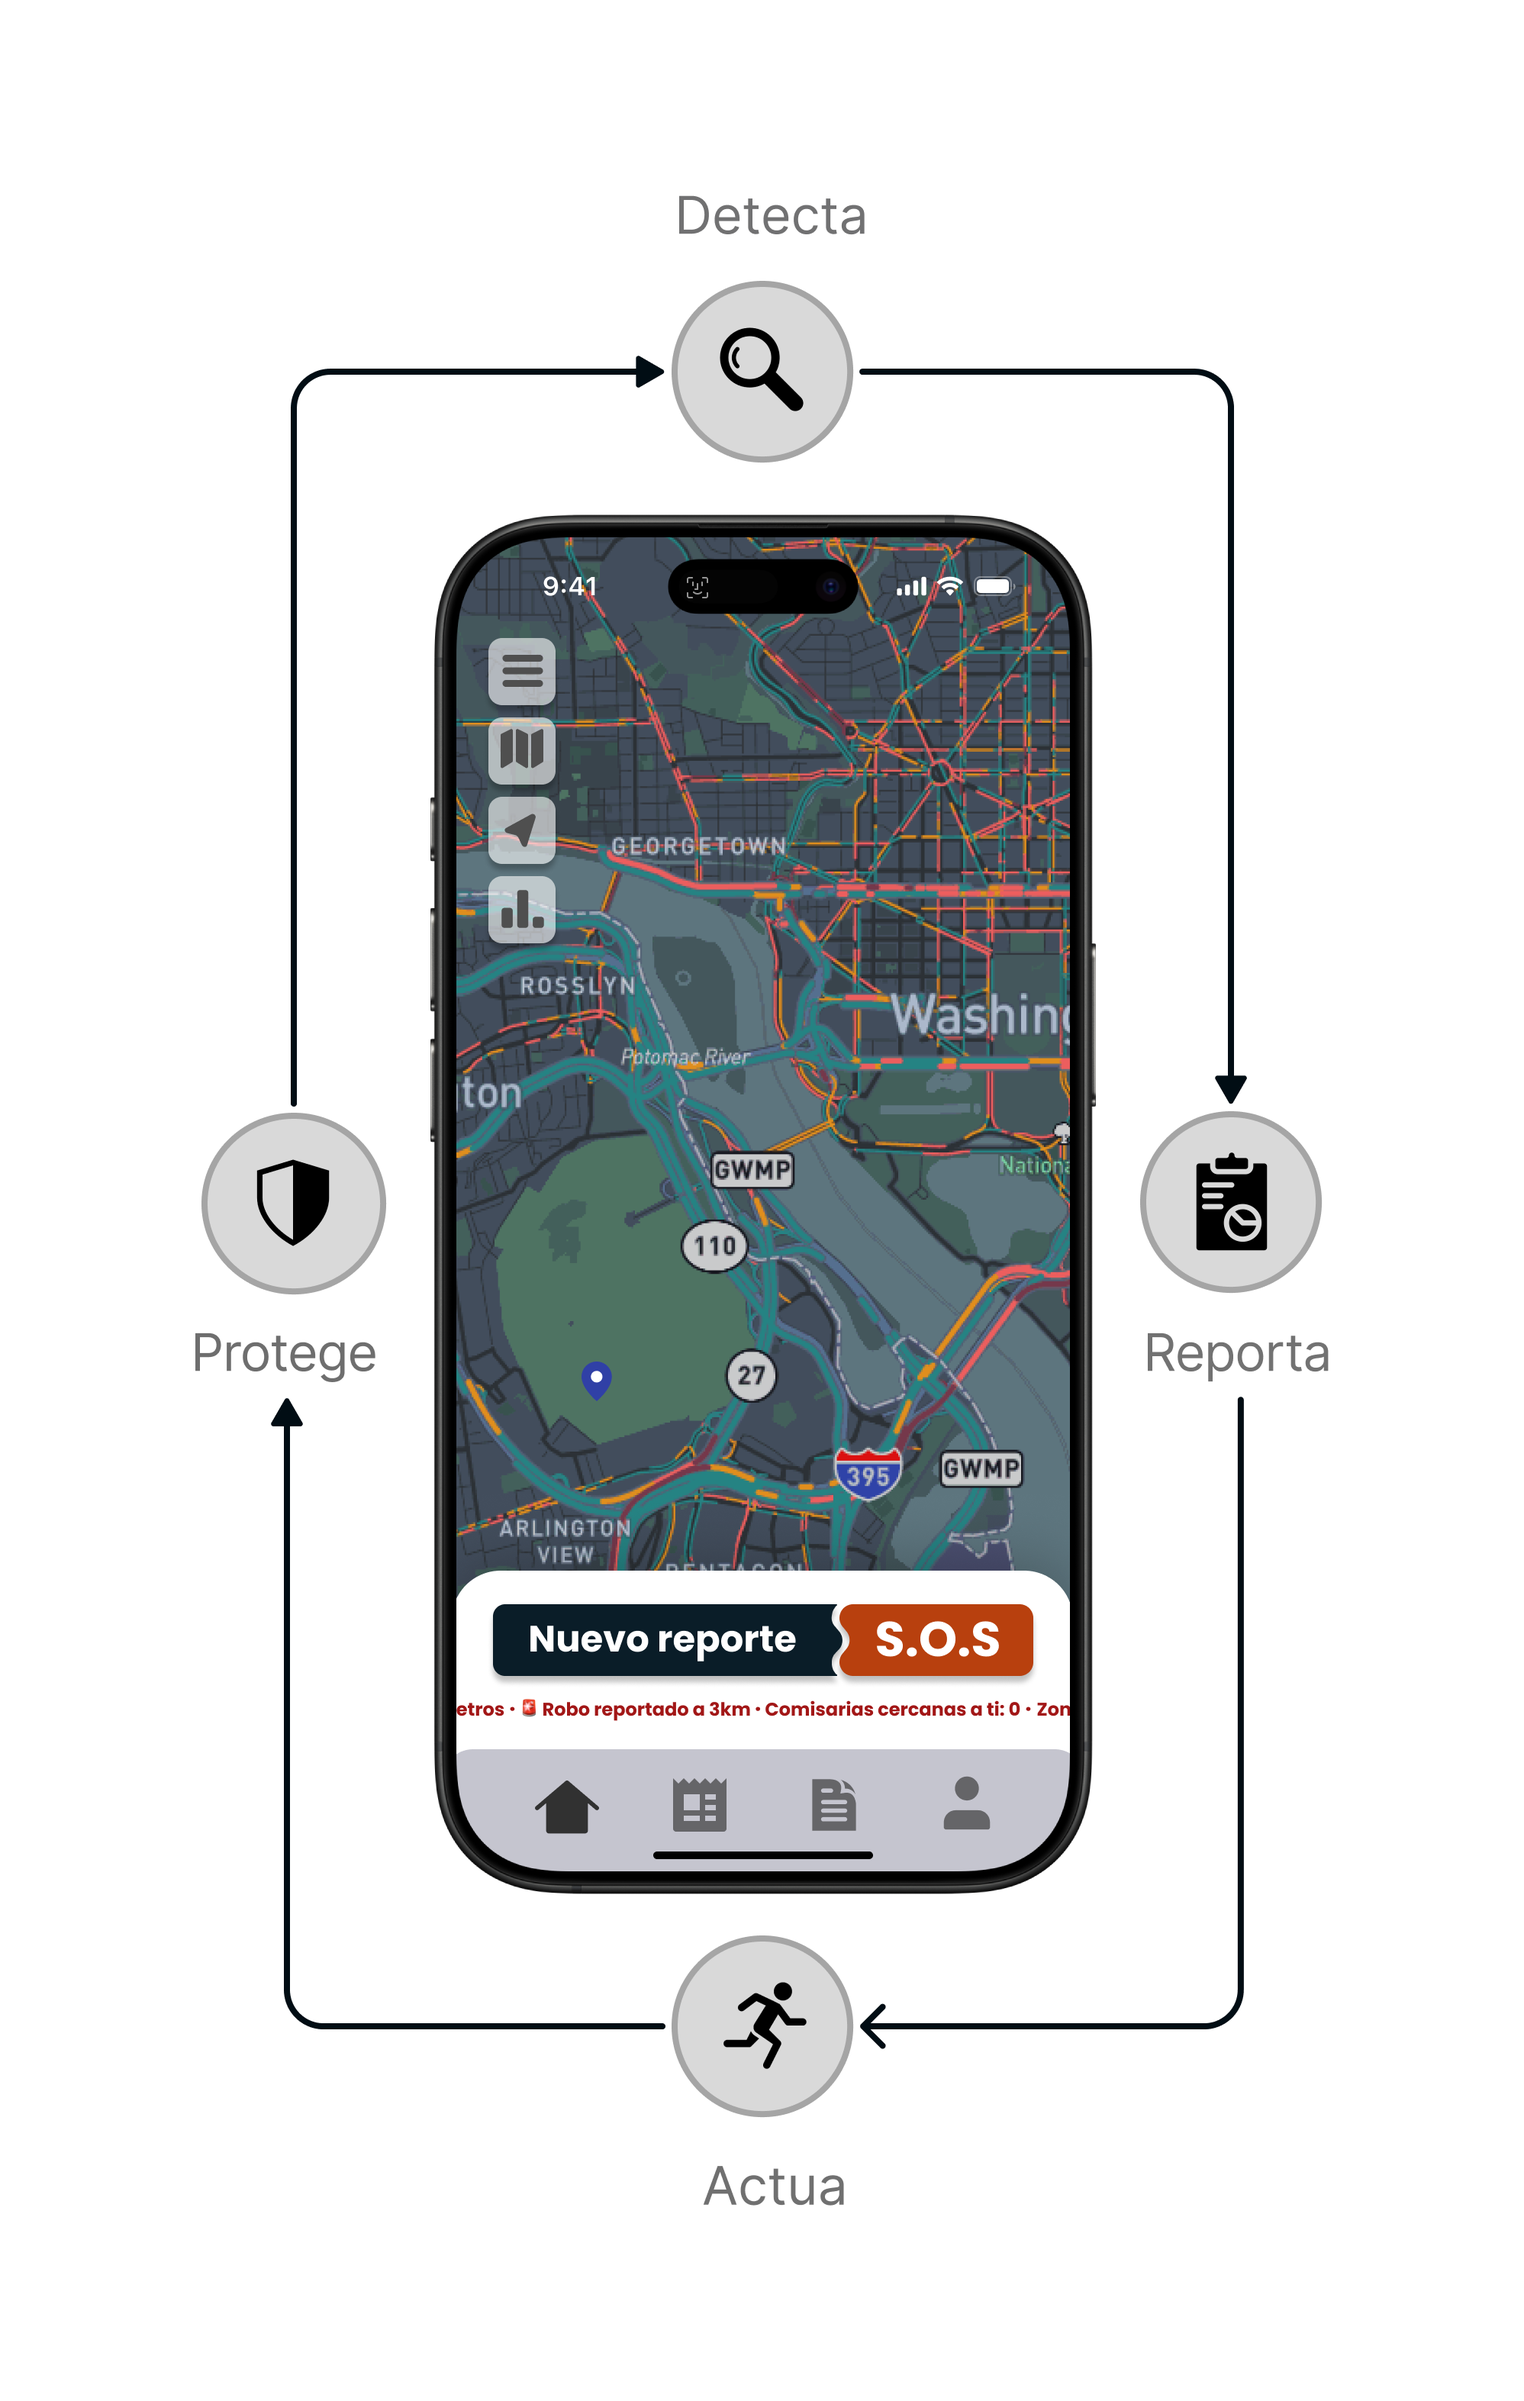
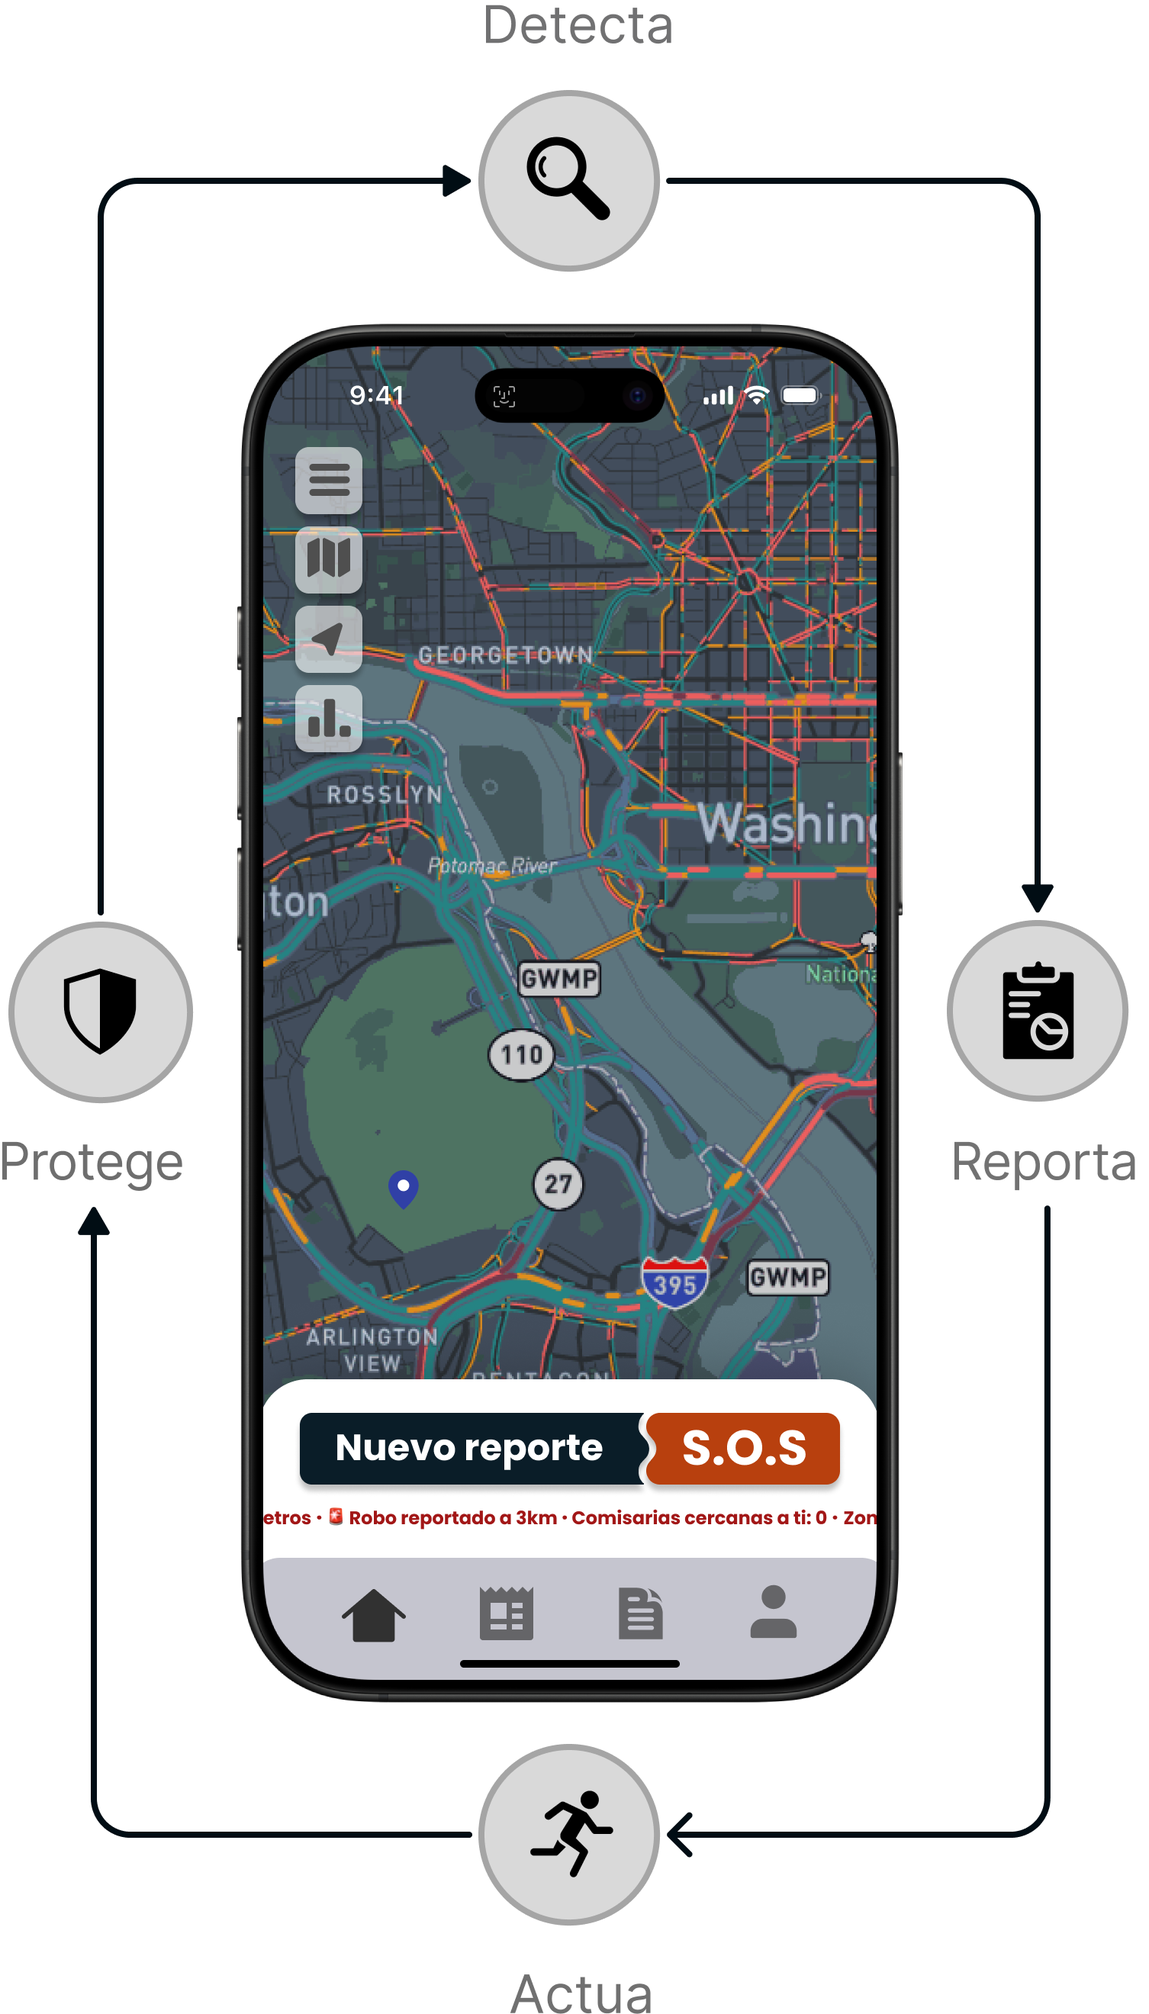
fix: Responsive design

diff --git a/public/assets/styles/styles.css b/public/assets/styles/styles.css
@@ -14,7 +14,7 @@
     justify-content: space-between;
     align-items: center;
     height: 80px;
-    background-color: #eee;
+    background-color: #c2c1c1;
     padding: 0px 40px;
     position: fixed;
     width: 100%;
@@ -271,14 +271,14 @@
 }
 
 /* SECCIONES GENERAL */
-#definition, #features, #how-it-works, #benefits, #reviews {
+#definition, #features, #how-it-works, #benefits, #reviews, #explore, #message {
     scroll-margin-top: 140px;
 }
 
 .definition, .features, .how-it-works, .benefits, .reviews, .explore, .message {
     font-size: 25px;
     text-align: center;
-    margin-top: 60px;
+    margin: 60px 0;
 }
 
 /* SECCIÓN 1: INICIO */
@@ -388,9 +388,13 @@
 }
 
 /* SECCION N2: DEFINITION AND FEATURES */
+.definition {
+    padding: 0 80px;
+}
+
 .features ul {
     display: grid;
-    width: 70%;
+    width: 60%;
     margin: 0 auto;
     grid-template-columns: repeat(auto-fit, minmax(20rem, 1fr));
     grid-gap: 4rem 17rem;
@@ -408,7 +412,7 @@
 }
 
 /* SECCION N3: HOW IT WORKS */
-.how-it-works {
+.how-it-works-section {
     margin-bottom: 110px;
 }
 
@@ -434,12 +438,11 @@
 
 /* SECCIÓN N4: MENSSAGE */
 .message-section {
-    padding: 30px 60px;
+    padding: 20px 80px;
     background-color: #f0f0f0;
     display: flex;
     justify-content: center;
     align-items: center;
-    font-family: 'Segoe UI', Tahoma, Geneva, Verdana, sans-serif;
 }
 
 .message-content {
@@ -453,7 +456,7 @@
 }
 
 .message-image {
-    max-width: 600px;
+    max-width: 500px;
     width: 100%;
     height: auto;
     object-fit: contain;
@@ -498,7 +501,7 @@
 
 /* SECCIÓN N4: BENEFITS */
 .benefits-section {
-    padding: 80px 20px;
+    padding: 40px 80px;
     background-color: #ffffff;
     text-align: center;
 }
@@ -521,15 +524,15 @@
     flex-wrap: wrap;
     justify-content: center;
     align-items: flex-start;
-    gap: 100px;
+    gap: 40px;
     max-width: 1400px;
     margin: 0 auto;
-    padding: 40px 20px;
+    padding: 20px;
     position: relative;
 }
 
 .benefits-left, .benefits-right {
-    flex: 1 1 450px;
+    flex: 1 1 350px;
     min-width: 360px;
     text-align: center;
 }
@@ -551,14 +554,14 @@
 .benefit-desc {
     font-size: 0.95em;
     color: #666;
-    margin-bottom: 15px;
+    margin: 30px 0;
 }
 
 .benefits-left ul, .benefits-right ul {
     list-style: none;
     padding: 0;
     text-align: left;
-    margin: 0 auto;
+    margin: 0 80px;
     max-width: 90%;
 }
 
@@ -572,23 +575,18 @@
 }
 
 .separation {
-    width: 100%;
-    overflow: hidden;
-    margin-top: 80px;
-}
-
-.separation img {
-    width: 100%;
-    height: auto;
-    max-height: none;
-    object-fit: cover;
-    object-position: center;
+    width: 100vw;
+    height: 400px;
+    background-image: url(../images/separation-img.png);
+    background-size: cover;
+    background-position: center;
     display: block;
+    overflow: hidden;
 }
 
 /* SECCIÓN N5: REVIEWS */
 .reviews-section {
-    padding: 60px 20px 90px;
+    padding: 60px 80px;
     background-color: #f0f0f0;
     text-align: center;
 }
@@ -671,7 +669,7 @@
 
 /* SECCIÓN N6: EXPLORAR */
 .explore-section {
-    padding: 60px 20px 90px;
+    padding: 60px 80px;
     background-color: #f9f9f9;
     text-align: center;
 }
@@ -684,7 +682,7 @@
 .explore-header p {
     font-size: 1.1em;
     color: #555;
-    margin-bottom: 20px;
+    margin: 30px 0;
     max-width: 1600px;
     margin-left: auto;
     margin-right: auto;
@@ -695,7 +693,7 @@
     grid-template-columns: repeat(auto-fit, minmax(320px, 1fr));
     gap: 3rem 2.5rem;
     padding: 30px;
-    max-width: 1600px;
+    max-width: 1500px;
     margin: 0 auto;
 }
 
@@ -803,48 +801,7 @@ footer {
 }
 
 /* RESPONSIVE */
-@media (max-width: 1180px) {
-    .benefits-group {
-        flex-direction: column;
-        align-items: center;
-        gap: 10px;
-    }
-
-    .benefits-divider {
-        display: none;
-    }
-
-    .benefits-left,
-    .benefits-right {
-        text-align: center;
-        width: 100%;
-        max-width: 600px;
-    }
-
-    .benefits-left ul,
-    .benefits-right ul {
-        text-align: left;
-        margin: 0 auto;
-        max-width: 90%;
-    }
-}
-
-@media (max-width: 900px) {
-    .message-content {
-        flex-direction: column;
-        text-align: center;
-    }
-
-    .message-text {
-        max-width: 100%;
-    }
-
-    .message-image {
-        max-width: 200px;
-    }
-}
-
-@media (max-width: 855px) {
+@media (max-width: 1300px) {
     .navigation {
         top: 0px;
     }
@@ -903,7 +860,35 @@ footer {
     .features ul {
         grid-template-columns: 1fr;
     }
+
+    .benefits-group {
+        flex-direction: column;
+        align-items: center;
+        gap: 40px;
+    }
+
+    .benefits-divider {
+        display: none;
+    }
+
+    .benefits-left, .benefits-right {
+        text-align: center;
+        width: 100%;
+        max-width: 600px;
+    }
 }
+
+@media (max-width: 900px) {
+    .message-content {
+        flex-direction: column;
+        text-align: center;
+    }
+
+    .message-text {
+        max-width: 100%;
+    }
+}
+
 
 @media (max-width: 560px) {
     .auth-overlay input {

diff --git a/public/index.html b/public/index.html
@@ -202,11 +202,9 @@
                     </div>
                 </div>
             </div>
-        
-            <div class="separation">
-                <img src="assets/images/separation-img.png" alt="Imagen de separación">
-            </div>
         </section>
+
+        <div class="separation"></div>
 
         <!-- Sección N6: Reviews -->
         <section class="reviews-section" id="reviews">
